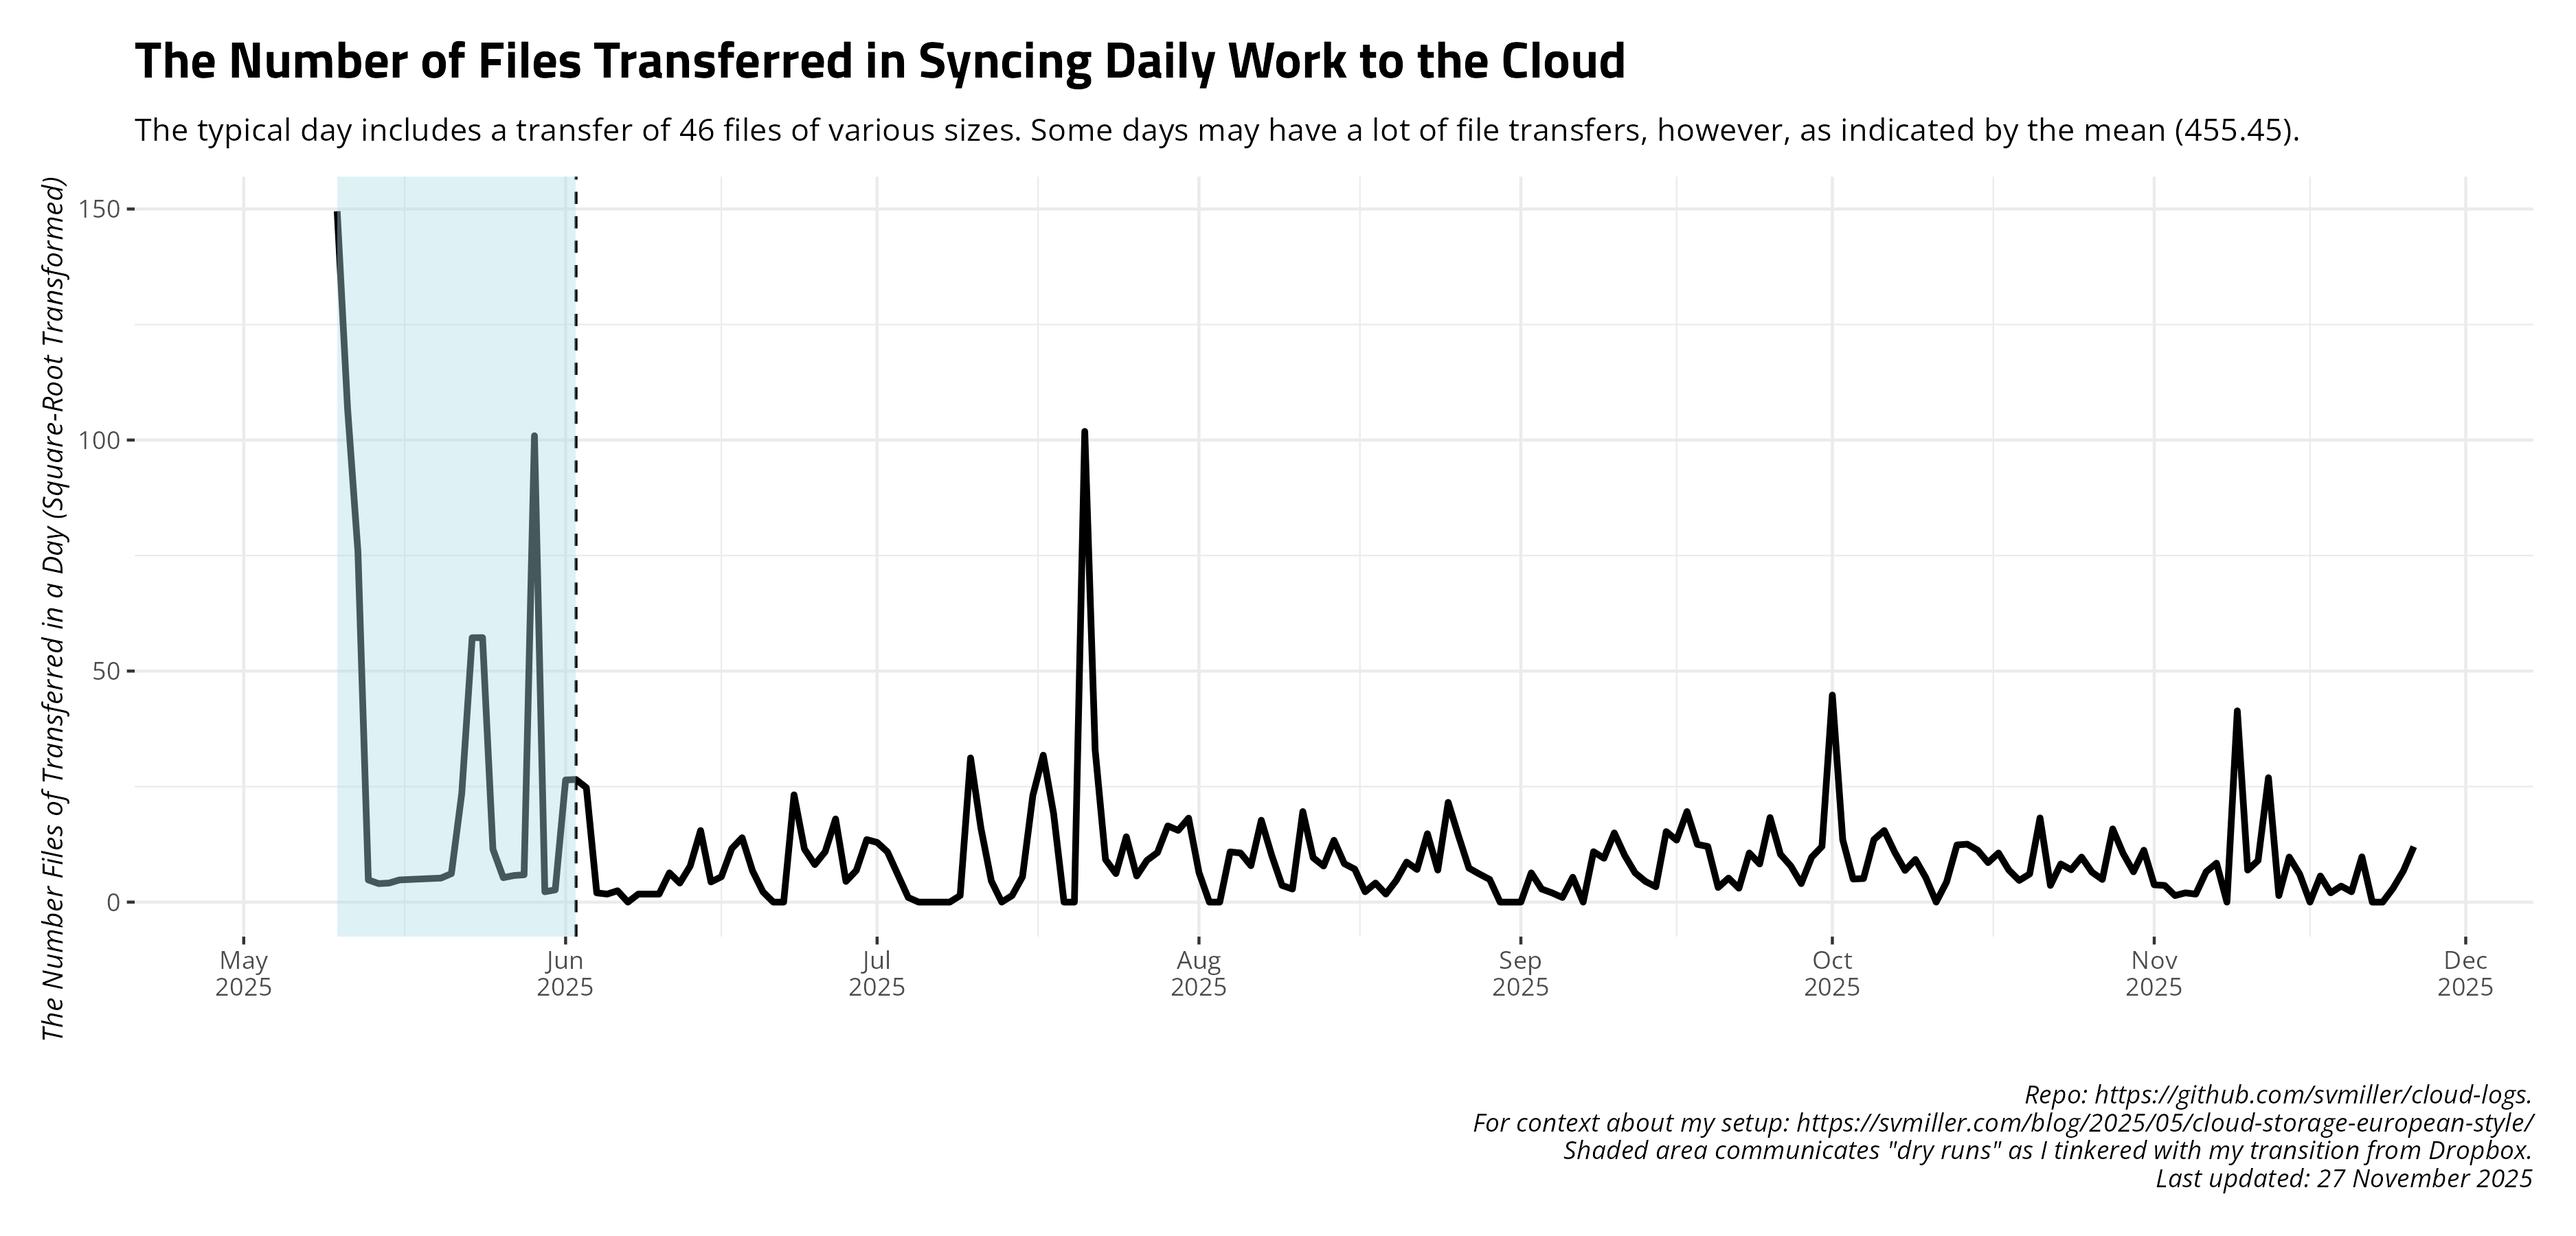
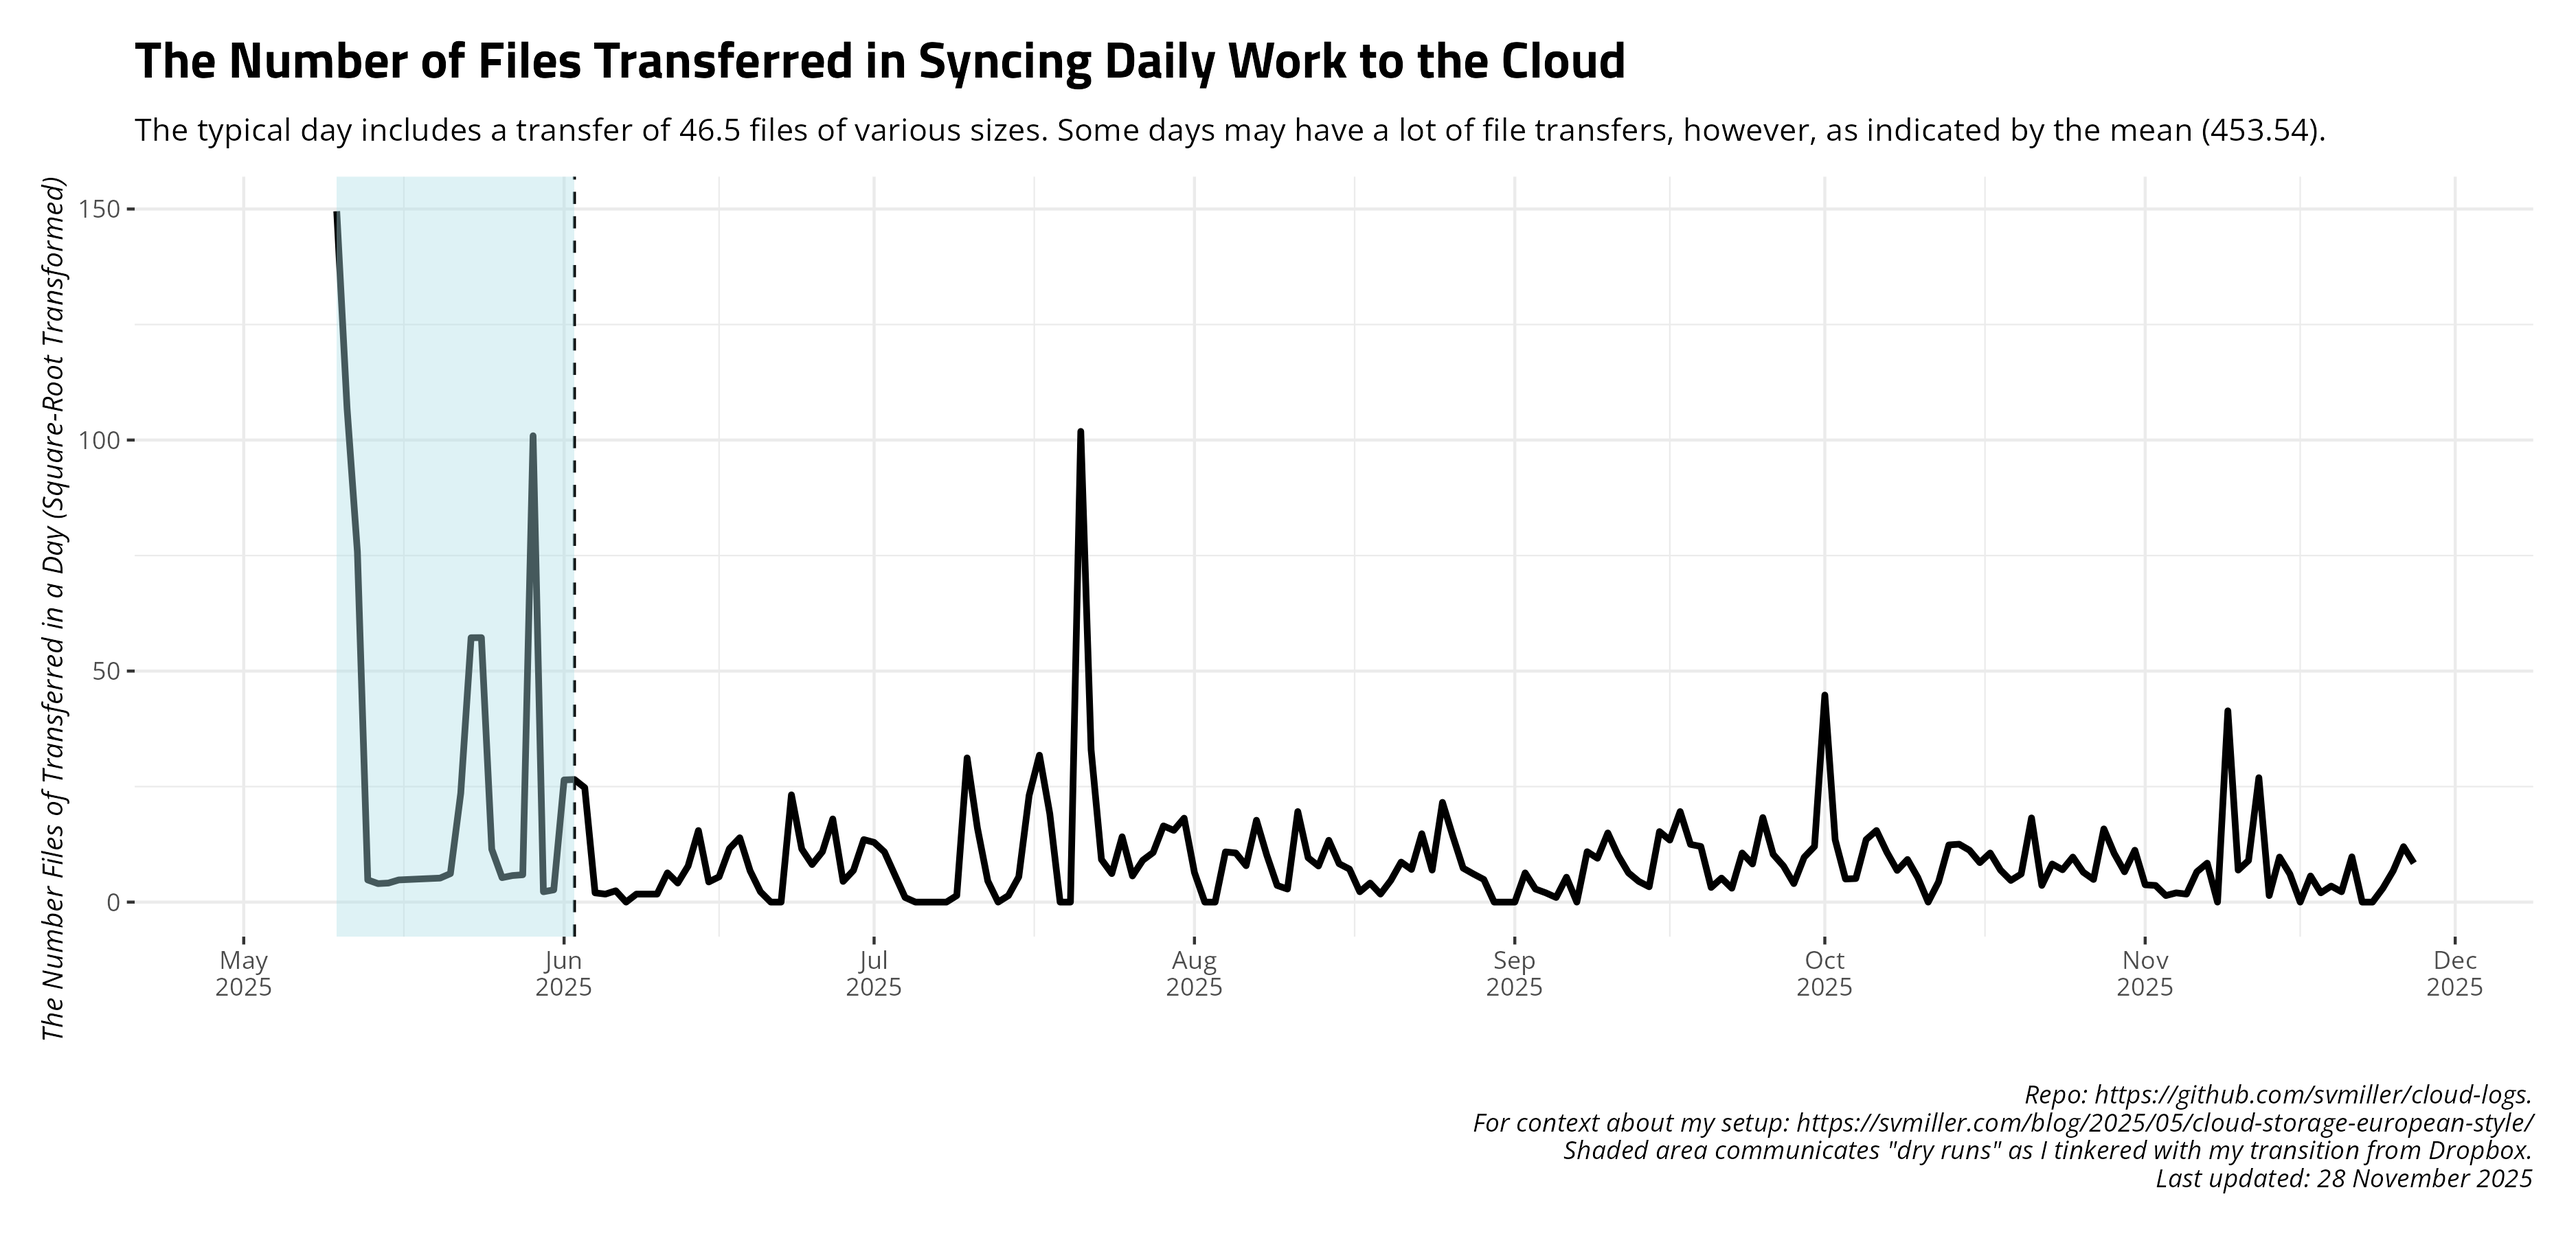
Date: 2025-11-28 09:00:17. Hi mom!

diff --git a/README.md b/README.md
@@ -27,17 +27,17 @@ and uploads to Github.
     #> # A tibble: 14 × 4
     #>    date       ftransfer stransfer   elapsed
     #>    <date>         <dbl> <chr>       <chr>  
-    #>  1 2025-11-13         2 1.737 MiB   7m23.6s
-    #>  2 2025-11-14        95 1.137 MiB   4m44.7s
-    #>  3 2025-11-15        37 820.913 KiB 4m56.9s
-    #>  4 2025-11-16         0 <NA>        4m59.2s
-    #>  5 2025-11-17        32 359.220 KiB 4m54.7s
-    #>  6 2025-11-18         4 1.671 MiB   4m58.9s
-    #>  7 2025-11-19        12 3.454 MiB   4m58.5s
-    #>  8 2025-11-20         5 289.079 KiB 4m51.0s
-    #>  9 2025-11-21        96 19.696 MiB  4m13.3s
-    #> 10 2025-11-22         0 <NA>        4m57.3s
-    #> 11 2025-11-23         0 <NA>        4m58.4s
-    #> 12 2025-11-24         9 381.388 KiB 4m58.9s
-    #> 13 2025-11-25        46 877.675 KiB 4m57.2s
-    #> 14 2025-11-26       144 2.174 MiB   4m11.5s
+    #>  1 2025-11-14        95 1.137 MiB   4m44.7s
+    #>  2 2025-11-15        37 820.913 KiB 4m56.9s
+    #>  3 2025-11-16         0 <NA>        4m59.2s
+    #>  4 2025-11-17        32 359.220 KiB 4m54.7s
+    #>  5 2025-11-18         4 1.671 MiB   4m58.9s
+    #>  6 2025-11-19        12 3.454 MiB   4m58.5s
+    #>  7 2025-11-20         5 289.079 KiB 4m51.0s
+    #>  8 2025-11-21        96 19.696 MiB  4m13.3s
+    #>  9 2025-11-22         0 <NA>        4m57.3s
+    #> 10 2025-11-23         0 <NA>        4m58.4s
+    #> 11 2025-11-24         9 381.388 KiB 4m58.9s
+    #> 12 2025-11-25        46 877.675 KiB 4m57.2s
+    #> 13 2025-11-26       144 2.174 MiB   4m11.5s
+    #> 14 2025-11-27        71 85.606 MiB  4m41.6s
